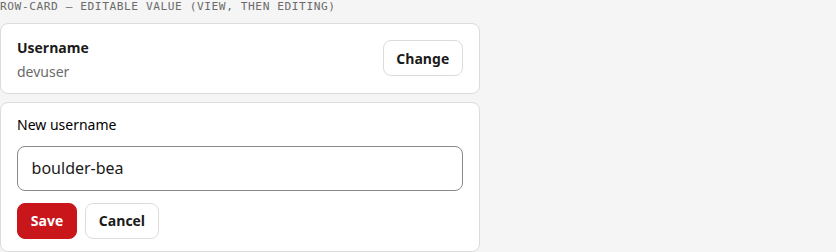
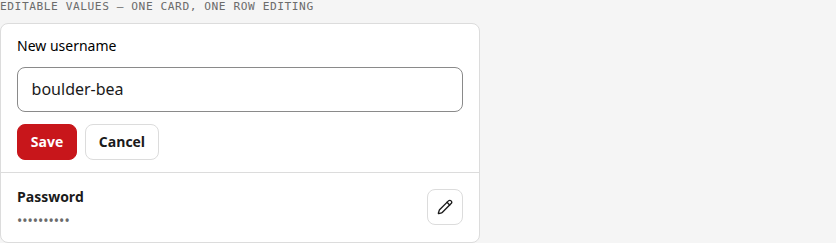
Account details: one card with dividers and pencil buttons (#1467)
The three values sit in one card instead of three, each with a pencil
button (aria-label "Change username" etc.) in place of Change. At 312px
the section drops from about 358px to 196px. Catalogue entry and
screenshots updated.

diff --git a/docs/ui-component-catalog/swatch.html b/docs/ui-component-catalog/swatch.html
@@ -132,26 +132,28 @@
 </div>
 
 <div class="swatch" id="s-row-card-editable">
-  <div class="swatch-label">row-card — editable value (view, then editing)</div>
-  <div class="swatch-body flex flex-col gap-2">
-    <div class="row-card flex flex-col gap-3">
-      <div class="flex flex-wrap items-center gap-3">
-        <div class="flex-1 min-w-[12rem]">
-          <span class="row-card-title">Username</span>
-          <p class="text-sm text-muted mt-1 break-words">devuser</p>
-        </div>
-        <button type="button" class="btn shrink-0">Change</button>
+  <div class="swatch-label">editable values — one card, one row editing</div>
+  <div class="swatch-body">
+    <div class="bg-surface border border-border rounded-app divide-y divide-border">
+      <div class="px-4 py-3 flex flex-col gap-3">
+        <form class="flex flex-col gap-3">
+          <label class="text-sm" for="swatch-username">New username</label>
+          <input class="text-input w-full" id="swatch-username" type="text" value="boulder-bea">
+          <div class="flex flex-wrap gap-2">
+            <button type="button" class="btn btn-primary">Save</button>
+            <button type="button" class="btn">Cancel</button>
+          </div>
+        </form>
       </div>
-    </div>
-    <div class="row-card flex flex-col gap-3">
-      <form class="flex flex-col gap-3">
-        <label class="text-sm" for="swatch-username">New username</label>
-        <input class="text-input w-full" id="swatch-username" type="text" value="boulder-bea">
-        <div class="flex flex-wrap gap-2">
-          <button type="button" class="btn btn-primary">Save</button>
-          <button type="button" class="btn">Cancel</button>
+      <div class="px-4 py-3 flex flex-col gap-3">
+        <div class="flex items-center gap-3">
+          <div class="flex-1 min-w-0">
+            <span class="row-card-title">Password</span>
+            <p class="text-sm text-muted mt-1 break-words">••••••••••</p>
+          </div>
+          <button type="button" class="btn shrink-0 w-(--field-h) px-0" aria-label="Change password"><svg class="w-4 h-4 stroke-current fill-none" viewBox="0 0 24 24" stroke-width="2" stroke-linecap="round" stroke-linejoin="round" aria-hidden="true"><path d="M21.174 6.812a1 1 0 0 0-3.986-3.987L3.842 16.174a2 2 0 0 0-.5.83l-1.321 4.352a.5.5 0 0 0 .623.622l4.353-1.32a2 2 0 0 0 .83-.497z"></path><path d="m15 5 4 4"></path></svg></button>
         </div>
-      </form>
+      </div>
     </div>
   </div>
 </div>

diff --git a/docs/ui-component-catalog.md b/docs/ui-component-catalog.md
@@ -141,35 +141,41 @@ flow rather than toggling straight away, such as the Danger zone's
 (`views/account/index.njk`.) `client/row-card.js` builds the same shape
 for the Performance hub; keep the two in sync.
 
-### Variant: editable value
+### Variant: editable values
 
-A value shown as muted text with a grey *Change*. *Change* swaps the view
-for a form in the same card: plain labels, `text-input`s, an
-`error-message`, a red *Save* and a grey *Cancel*. Used for the username,
-email and password on Account and authentication.
+A short list of values, such as the username, email and password on
+Account and authentication, sits in one card with dividers. Each row shows
+its value as muted text, with a grey pencil button that has an accessible
+name (`aria-label="Change username"`). The pencil swaps the row for its
+form in place: plain labels, `text-input`s, an `error-message`, a red
+*Save* and a grey *Cancel*. The row's own title is replaced by the form's
+label, such as "New username".
 
 | Dark | Light |
 |---|---|
-| ![row-card editable value, viewing and editing](ui-component-catalog/row-card-editable-dark.png) | ![row-card editable value, viewing and editing](ui-component-catalog/row-card-editable-light.png) |
+| ![editable values in one card, one row editing](ui-component-catalog/row-card-editable-dark.png) | ![editable values in one card, one row editing](ui-component-catalog/row-card-editable-light.png) |
 
 ```html
-<div class="row-card flex flex-col gap-3" id="username-row">
-  <div class="flex flex-wrap items-center gap-3" id="username-view">
-    <div class="flex-1 min-w-[12rem]">
-      <span class="row-card-title">Username</span>
-      <p class="text-sm text-muted mt-1 break-words" id="username-value"></p>
+<div class="bg-surface border border-border rounded-app divide-y divide-border" id="account-fields">
+  <div class="px-4 py-3 flex flex-col gap-3" id="username-row">
+    <div class="flex items-center gap-3" id="username-view">
+      <div class="flex-1 min-w-0">
+        <span class="row-card-title">Username</span>
+        <p class="text-sm text-muted mt-1 break-words" id="username-value"></p>
+      </div>
+      <button type="button" class="btn shrink-0 w-(--field-h) px-0" id="username-edit-btn" aria-label="Change username"><svg class="w-4 h-4 stroke-current fill-none" viewBox="0 0 24 24" stroke-width="2" stroke-linecap="round" stroke-linejoin="round" aria-hidden="true"><path d="M21.174 6.812a1 1 0 0 0-3.986-3.987L3.842 16.174a2 2 0 0 0-.5.83l-1.321 4.352a.5.5 0 0 0 .623.622l4.353-1.32a2 2 0 0 0 .83-.497z"></path><path d="m15 5 4 4"></path></svg></button>
     </div>
-    <button type="button" class="btn shrink-0" id="username-edit-btn">Change</button>
+    <form class="flex flex-col gap-3" id="username-form" hidden>
+      <label class="text-sm" for="username-input">New username</label>
+      <input class="text-input w-full" id="username-input" name="username" type="text" required>
+      <p class="error-message" id="username-error" role="alert" hidden></p>
+      <div class="flex flex-wrap gap-2">
+        <button type="submit" class="btn btn-primary" id="username-save-btn">Save</button>
+        <button type="button" class="btn" id="username-cancel-btn">Cancel</button>
+      </div>
+    </form>
   </div>
-  <form class="flex flex-col gap-3" id="username-form" hidden>
-    <label class="text-sm" for="username-input">New username</label>
-    <input class="text-input w-full" id="username-input" name="username" type="text" required>
-    <p class="error-message" id="username-error" role="alert" hidden></p>
-    <div class="flex flex-wrap gap-2">
-      <button type="submit" class="btn btn-primary" id="username-save-btn">Save</button>
-      <button type="button" class="btn" id="username-cancel-btn">Cancel</button>
-    </div>
-  </form>
+  <!-- email-row, password-row: the same shape -->
 </div>
 ```
 
